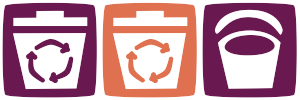
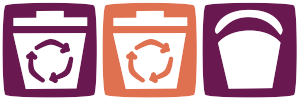
ftr(BucketFactory): add bucket factory

Changed region(s): [[0.75, 0.33, 0.93, 0.57]]

diff --git a/ldjam-57-depths/src/game/Game.js b/ldjam-57-depths/src/game/Game.js
@@ -11,6 +11,7 @@ import Garbage from "./Garbage.js";
 import Tools from "./Tools.js";
 import Dumpster from "./Dumpster.js";
 import Trigger from "./Trigger.js";
+import BucketFactory from "./BucketFactory.js";
 
 export default class Game {
   /** @type {Phaser.GameObjects.Text} */
@@ -30,6 +31,9 @@ export default class Game {
 
   /** @type {Dumpster[]} */
   _dumpsters = [];
+
+  /** @type {BucketFactory[]} */
+  _bucketFactories = [];
 
   constructor() {
     const me = this;
@@ -82,9 +86,7 @@ export default class Game {
       me._garbage.createSpot(pos.x, pos.y);
     }
 
-    me._garbage.createBucket(400, 200, 0);
-    // me._garbage.createBag(300, 250);
-
+    me._bucketFactories.push(new BucketFactory(200, 200, me._garbage));
     // me._garbage.createGarbageWall(500, 500);
 
     Utils.ifDebug(Config.Debug.ShowSceneLog, () => {
@@ -95,7 +97,7 @@ export default class Game {
     });
   }
 
-  update(deltaSec) {
+  update(timeSec, deltaSec) {
     const me = this;
 
     if (
@@ -111,6 +113,8 @@ export default class Game {
     me._tools.update();
     for (let i = 0; i < me._dumpsters.length; ++i)
       me._dumpsters[i].update(playerCursorPos);
+    for (let i = 0; i < me._bucketFactories.length; ++i)
+      me._bucketFactories[i].update(timeSec);
 
     Utils.ifDebug(Config.Debug.ShowSceneLog, () => {
       const mouse = Here._.input.activePointer;

diff --git a/ldjam-57-depths/src/game/BucketFactory.js b/ldjam-57-depths/src/game/BucketFactory.js
@@ -1,0 +1,50 @@
+import Here from "../framework/Here.js";
+import Utils from "../framework/Utils.js";
+import Consts from "./Consts.js";
+import Garbage from "./Garbage.js";
+
+export default class BucketFactory {
+  _nextUpdateSec = 0;
+
+  /** @type {Phaser.Geom.Rectangle} */
+  _spawnRect;
+
+  /** @type {Garbage} */
+  _garbage;
+
+  constructor(x, y, garbage) {
+    const me = this;
+
+    me._garbage = garbage;
+
+    const image = Here._.add
+      .image(x, y, "shop", 2)
+      .setDepth(Consts.Depth.Floor);
+    me._spawnRect = image.getBounds();
+  }
+
+  update(timeSec) {
+    const me = this;
+
+    if (timeSec < me._nextUpdateSec) return;
+
+    const bodies = Here._.physics.overlapRect(
+      me._spawnRect.x,
+      me._spawnRect.y,
+      me._spawnRect.width,
+      me._spawnRect.height,
+      true,
+      false
+    );
+    const bucket = Utils.firstOrNull(bodies, (b) => b.gameObject.isBucket);
+    if (!bucket) {
+      me._garbage.createBucket(
+        me._spawnRect.centerX,
+        me._spawnRect.centerY + 10,
+        0
+      );
+    }
+
+    me._nextUpdateSec = timeSec + 1;
+  }
+}

diff --git a/ldjam-57-depths/src/game/Dumpster.js b/ldjam-57-depths/src/game/Dumpster.js
@@ -45,8 +45,10 @@ export default class Dumpster {
   update(mousePos) {
     const me = this;
 
+    const contentType = me._tools._handContentType;
     const frame =
-      me._tools._handContentType == Enums.HandContent.BAG &&
+      (contentType == Enums.HandContent.BAG ||
+        contentType == Enums.HandContent.BUCKET) &&
       Phaser.Geom.Rectangle.ContainsPoint(me._sprite.getBounds(), mousePos)
         ? 1
         : 0;

diff --git a/ldjam-57-depths/src/scenes/GameScene.js b/ldjam-57-depths/src/scenes/GameScene.js
@@ -51,6 +51,6 @@ export default class GameScene extends HereScene {
 
     const me = this;
 
-    me._game.update(delta / 1000);
+    me._game.update(time / 1000, delta / 1000);
   }
 }
